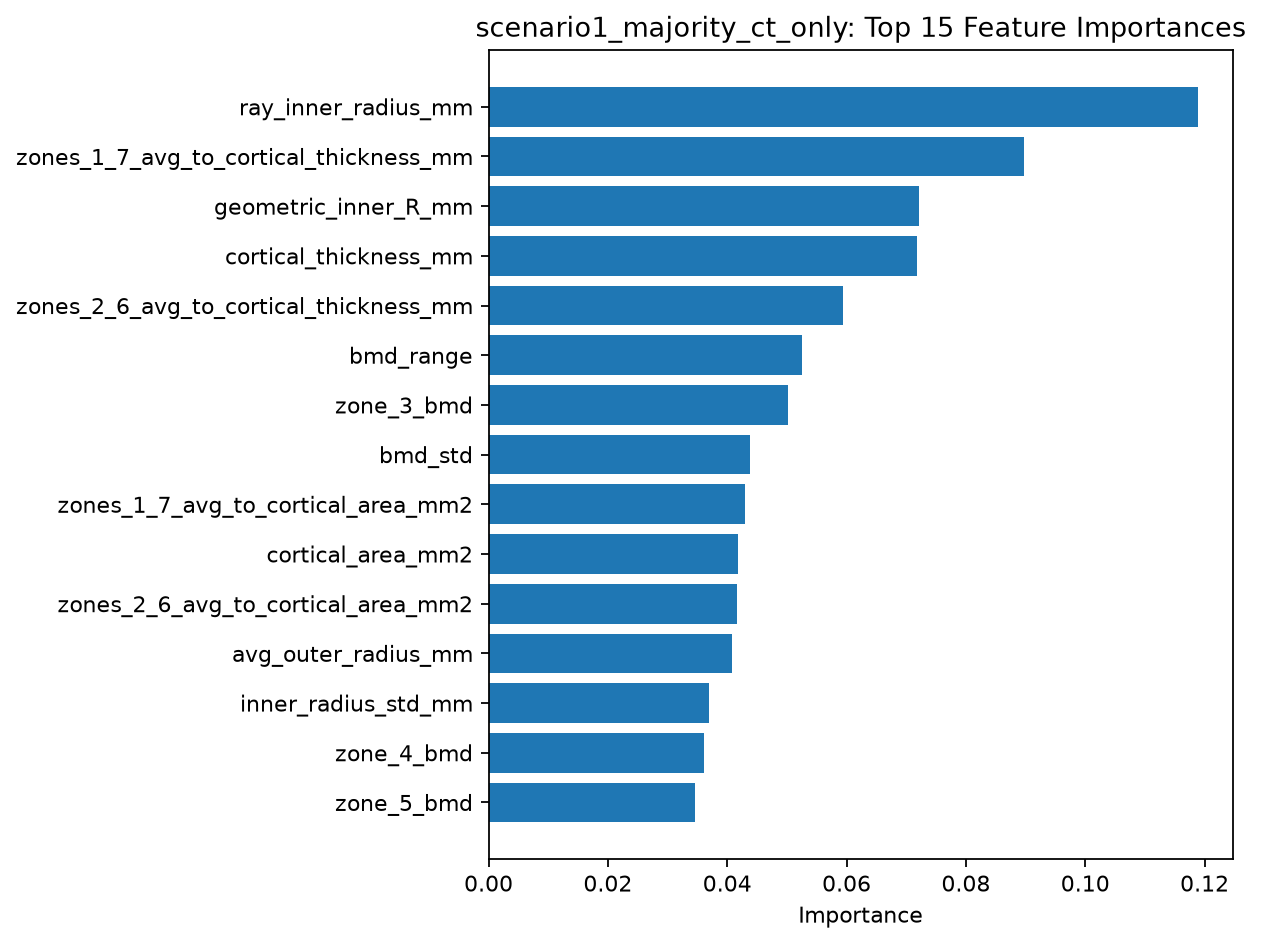
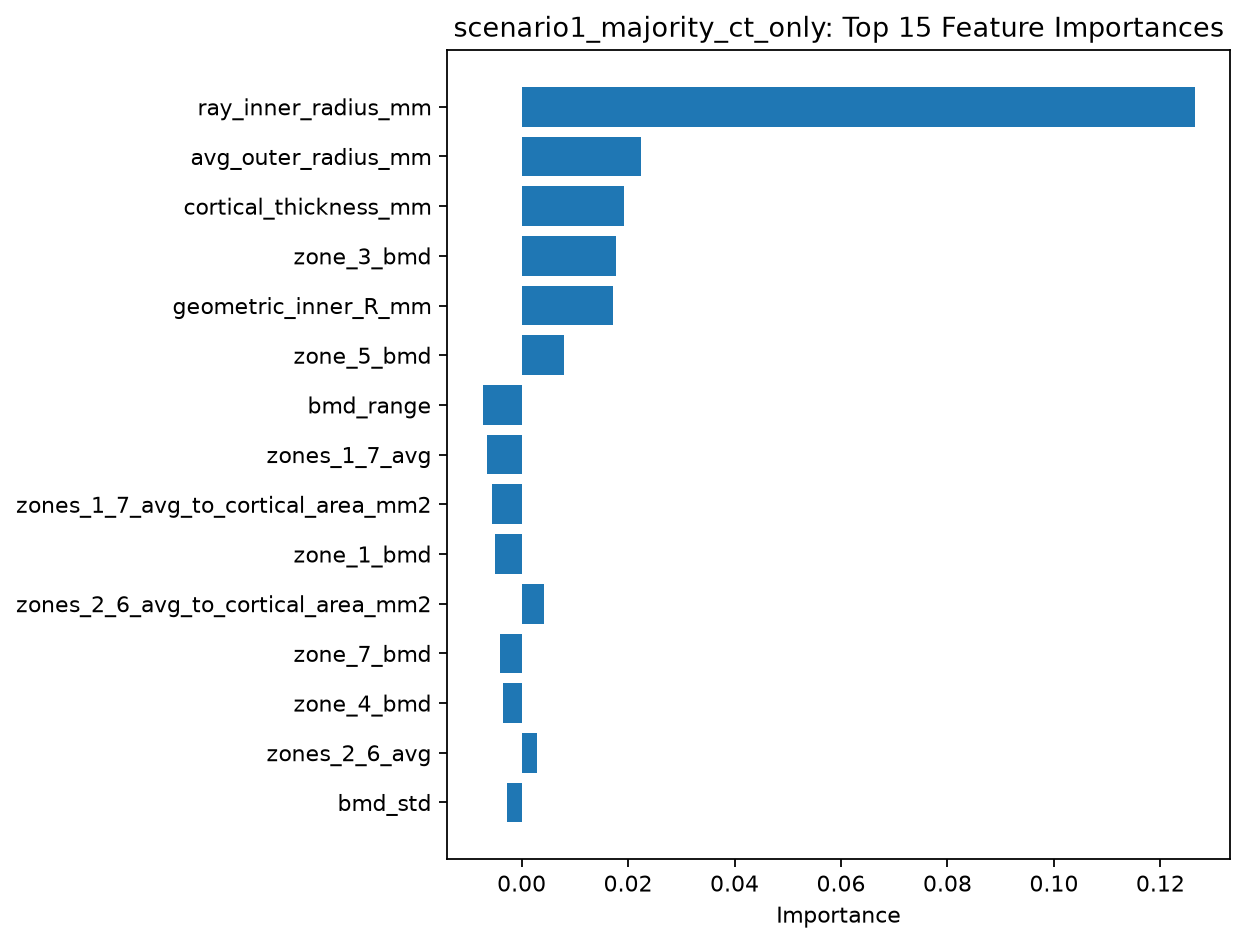
Unify feature importance method: permutation importance for all scenarios
Scenarios 1 and 5 previously used native feature_importances_ because
Random Forest was their best-by-test-ROC-AUC model, while every other
scenario used permutation importance. These aren't on the same scale and
native impurity importance is biased toward high-cardinality/correlated
features (several engineered CT features are ratios/averages of the same
zones) -- mixing methods made cross-scenario importance comparisons
invalid. All 10 classification scenarios now use permutation importance
on the held-out test set (ROC-AUC scoring, n_repeats=30). ray_inner_radius_mm
remained the top feature in both scenarios 1 and 5 after the change.

Updated methods.md Section 7.4 to describe the single unified method.

diff --git a/06_feature_importance_best_model_scenarios_1_3_4_5_6.py b/06_feature_importance_best_model_scenarios_1_3_4_5_6.py
@@ -5,8 +5,13 @@ regression tasks and are out of scope for this script).
 
 Method:
   - Pick best model per scenario by highest test ROC-AUC.
-  - Tree models: native feature_importances_.
-  - Non-tree models: permutation importance on test set (ROC-AUC scoring).
+  - Compute test-set permutation importance (ROC-AUC scoring, n_repeats=30)
+    for that model, regardless of model type. Earlier revisions used native
+    feature_importances_ for tree-based models (Random Forest, Gradient
+    Boosting), but that method is not comparable in scale to permutation
+    importance and is biased toward high-cardinality/correlated features;
+    all scenarios now use the same method so rankings are comparable
+    scenario-to-scenario.
 
 Note: scenarios 1, 3, and 4 previously pointed at stale results directories
 (results_majority/, results_majority_CT+Demographics/,
@@ -127,18 +132,20 @@ def load_split(processed_dir, feature_cols, target_col):
 
 
 def compute_importance(model_name, model, X_train, y_train, X_test, y_test, feature_cols):
+    # Always use test-set permutation importance, regardless of model type.
+    # Native tree importance (feature_importances_) was used previously for
+    # Random Forest / Gradient Boosting, but it is not comparable in scale to
+    # permutation importance and is biased toward high-cardinality/correlated
+    # features. Using one method for every scenario keeps the "best model"
+    # feature-importance rankings comparable across scenarios regardless of
+    # which of the 4 candidate algorithms happened to win.
     model.fit(X_train, y_train)
-    if model_name in {"Random Forest", "Gradient Boosting"}:
-        imp = model.feature_importances_
-        std = np.zeros_like(imp)
-        method = "native_tree_importance"
-    else:
-        perm = permutation_importance(
-            model, X_test, y_test, scoring="roc_auc", n_repeats=30, random_state=42, n_jobs=-1
-        )
-        imp = perm.importances_mean
-        std = perm.importances_std
-        method = "permutation_importance_test_auc"
+    perm = permutation_importance(
+        model, X_test, y_test, scoring="roc_auc", n_repeats=30, random_state=42, n_jobs=-1
+    )
+    imp = perm.importances_mean
+    std = perm.importances_std
+    method = "permutation_importance_test_auc"
 
     df = pd.DataFrame(
         {

diff --git a/methods.md b/methods.md
@@ -173,18 +173,14 @@ Feature importance was computed by a single script, `06_feature_importance_best_
 
 For each classification scenario, importance was computed for exactly **one** model — the model with the highest **test-set** ROC-AUC in that scenario (i.e., the same "best model" reported in the Discussion's results table), refit from scratch on that scenario's training data with the hyperparameters in Section 6. Importance was **not** computed for the other three candidate models in each scenario.
 
-The importance method used depends on the winning model's type, and these two methods are not on a directly comparable scale:
+Importance is computed the same way for every scenario, regardless of the winning model's type: **permutation importance** (`sklearn.inspection.permutation_importance`) on the **held-out test set**, scoring by ROC-AUC, with `n_repeats=30` and `random_state=42`. Each reported value is the mean decrease in test ROC-AUC across the 30 repeats when that feature's values are randomly shuffled; the standard deviation across repeats is also recorded. An earlier revision of this pipeline used native `feature_importances_` (impurity-based mean decrease in Gini/variance) for scenarios 1 and 5, where Random Forest happened to be the best-by-test-ROC-AUC model — that method was dropped because it is not on the same scale as permutation importance, is biased toward high-cardinality/correlated features (several engineered CT features are ratios/averages of the same underlying zones), and made cross-scenario comparison invalid. All scenarios now use one method, so importance rankings are directly comparable scenario-to-scenario. As a consistency check, `ray_inner_radius_mm` remained the top-ranked feature in both scenario 1 and scenario 5 after this change.
 
-- **Tree-based models (Random Forest, Gradient Boosting):** native `feature_importances_` (impurity-based mean decrease in Gini/variance across all trees), computed from the fitted model on the training data. This is scenario 1's and scenario 5's method (Random Forest was the best-by-test-ROC-AUC model in both).
-- **Non-tree models (Logistic Regression, SVM):** permutation importance (`sklearn.inspection.permutation_importance`), computed on the **held-out test set**, scoring by ROC-AUC, with `n_repeats=30` and `random_state=42`. Each reported value is the mean decrease in test ROC-AUC across the 30 repeats when that feature's values are randomly shuffled; the standard deviation across repeats is also recorded. This is the method for every other scenario (3, 4, 6, 7, 8, 9, 10, 11), where Logistic Regression or SVM was the best-by-test-ROC-AUC model.
+One limitation of this procedure should still be stated explicitly, since the question of whether feature importance was computed "systematically and without bias" doesn't have a single yes/no answer:
 
-Two limitations of this procedure should be stated explicitly, since the question of whether feature importance was computed "systematically and without bias" doesn't have a single yes/no answer:
+- **The selection rule (pick the highest-test-ROC-AUC model, then compute its permutation importance) is applied identically and mechanically across all 10 classification scenarios** — in that sense the procedure is systematic and not scenario-specific favoritism, and importance values are now on a common scale across scenarios.
+- **It is not, however, free of the "best-of-4-models" selection-on-the-test-set concern raised elsewhere in this document.** Choosing which model to explain based on the same test-set score used to report that model's headline performance means the reported feature ranking is conditioned on a metric drawn from the same 19–43-hip held-out set — a different resplit could plausibly select a different winning model for a given scenario, as the repeated-split results in Section 7.6 make clear the "best model" is not stable across resplits for some scenarios. Unlike the method-comparability issue above, this selection-bias concern was not resolved by switching to a single importance method, and applies equally to every scenario's feature-importance ranking.
 
-- **The selection rule is applied identically and mechanically across all 10 classification scenarios** (always: pick the highest-test-ROC-AUC model, then apply the importance method appropriate to its type) — in that sense, the procedure is systematic and not scenario-specific favoritism.
-- **However, it is not free of the "best-of-4-models" selection-on-the-test-set concern already raised elsewhere in this document.** Choosing which model to explain based on the same test-set score used to report that model's headline performance means the reported feature ranking is conditioned on a metric drawn from the same 19–43-hip held-out set — a different resplit could plausibly select a different winning model (and therefore a different importance method) for a given scenario, as the repeated-split results in Section 7.6 make clear the "best model" is not stable across resplits for some scenarios.
-- **Native tree importance and permutation importance measure different things and are not comparable in magnitude across scenarios.** A comparison like "age had importance 0.15 in the combined model, versus outer radius's 0.12 in the CT-only model" is only valid if both were computed the same way; when the winning model differs by type between two scenarios being compared, only the *rank order* of features within each scenario should be interpreted, not the numeric values across scenarios.
-
-Per-scenario feature-importance rankings, plots, and the method/model used for each are collected in `results_feature_importance_best_model/best_model_feature_importance_summary.csv`.
+Per-scenario feature-importance rankings, plots, and the winning model for each are collected in `results_feature_importance_best_model/best_model_feature_importance_summary.csv`.
 
 ### 7.5 "Best Model" Selection Criterion
 
@@ -230,7 +226,8 @@ Because the train/test split (Section 5.1), cross-validation folds (Section 7.1)
 | 2026-08-23 | Added scenarios 7–13 to complete the 3×3 ground-truth × feature-set sensitivity matrix (unanimous agreement, original-surgeon-only, and vote-fraction targets each now tested against CT-only, demographics-only, and CT+demographics). Corrected scenario 5/6 prose figures to match committed result files, fixed a stale image reference, repointed the feature-importance script at current (non-stale) result directories, and removed orphaned pre-split-fix result directories (`results_majority/`, `results_majority_CT+Demographics/`, `results_majority_demographics_only/`). See `SCENARIO_INDEX.md`. |
 | 2026-08-23 | Added precision/recall/F1 to the vote-fraction scenarios (2, 12, 13), which previously reported only regression metrics. Added a consolidated all-scenarios metrics table (`08_build_all_models_metrics_table.py`, `reports/all_models_metrics_table.md`). Extended the repeated-split robustness check to all 13 scenarios with 30 repeats and 95% confidence intervals (`07_repeated_grouped_split_eval.py` → `results_repeated_splits_all_scenarios/`), joined into the master metrics table. Corrected a stale claim that demographics were excluded from all models, and marked the "cohort-specific models" and "questionable-quality-scan exclusion" sensitivity analyses explicitly as not done. |
 | 2026-08-23 | Consolidated the 13+ near-duplicated data-cleaning/ground-truth/split/imputation implementations across the `03*` scripts and `07` into one shared module, `common_preprocessing.py`. Verified byte-for-byte (train.csv/metadata) and value-for-value (repeated-split summary, max abs diff 0.0) that every refactored script produces identical output to its pre-refactor version before committing — this was a pure code-organization change with zero effect on any reported number. |
-| 2026-08-24 | Substantially expanded and corrected Sections 6–7 (previously vague/out of date): documented exact model hyperparameters for all 8 algorithms (4 classifiers + 4 regressors) and stated explicitly that none were tuned; rewrote Cross-Validation (7.1) to specify `GroupKFold(n_splits=5)` is applied identically across all 13 scenarios, that it is not stratified by class/cohort, and that it is a reported diagnostic rather than a model-selection mechanism; rewrote Feature Importance (7.4) to specify it only covers the 10 classification scenarios (not the 3 regression scenarios), only the single best-by-test-ROC-AUC model per scenario (not all 4), and uses two different, non-comparable methods depending on model type (native tree importance vs. 30-repeat test-set permutation importance) — with an explicit statement that this selection procedure, while applied identically everywhere, is not free of test-set-informed selection bias; added a new "Best Model Selection Criterion" section (7.5) making that bias explicit; added a new "Repeated-Split Robustness Check" procedural section (7.6). Also rewrote Section 1 (Study Design) and Section 3 (Ground Truth Definition), both of which were stale — Section 1 still said "exclusively CT-derived imaging features" despite Sections 3/4/6/7–13 using demographics, and Section 3 listed only 3 of the 5 ground truths actually in use (missing `gt_h3d_agree` and `gt_unanimous`). Fixed a stale link to the superseded `results_repeated_splits_scenarios_1_3_4_5_6/` directory, and added exact library versions and a documented reproducibility-gap caveat to Section 8. |
+| 2026-08-24 | Substantially expanded and corrected Sections 6–7 (previously vague/out of date): documented exact model hyperparameters for all 8 algorithms (4 classifiers + 4 regressors) and stated explicitly that none were tuned; rewrote Cross-Validation (7.1) to specify `GroupKFold(n_splits=5)` is applied identically across all 13 scenarios, that it is not stratified by class/cohort, and that it is a reported diagnostic rather than a model-selection mechanism; rewrote Feature Importance (7.4) to specify it only covers the 10 classification scenarios (not the 3 regression scenarios) and only the single best-by-test-ROC-AUC model per scenario (not all 4); added a new "Best Model Selection Criterion" section (7.5) making the test-set-informed selection bias explicit; added a new "Repeated-Split Robustness Check" procedural section (7.6). Also rewrote Section 1 (Study Design) and Section 3 (Ground Truth Definition), both of which were stale — Section 1 still said "exclusively CT-derived imaging features" despite Sections 3/4/6/7–13 using demographics, and Section 3 listed only 3 of the 5 ground truths actually in use (missing `gt_h3d_agree` and `gt_unanimous`). Fixed a stale link to the superseded `results_repeated_splits_scenarios_1_3_4_5_6/` directory, and added exact library versions and a documented reproducibility-gap caveat to Section 8. |
+| 2026-08-24 | Switched `06_feature_importance_best_model_scenarios_1_3_4_5_6.py` to use permutation importance for every scenario, including scenarios 1 and 5 (previously native `feature_importances_`, since Random Forest was the best-by-test-ROC-AUC model in both) — native tree importance is not on the same scale as permutation importance and is biased toward high-cardinality/correlated features, so mixing the two methods made cross-scenario importance comparisons invalid. All 10 classification scenarios now report `permutation_importance_test_auc`. `ray_inner_radius_mm` remained the top-ranked feature in both scenarios 1 and 5 after the change. Updated Section 7.4 accordingly. |
 
 ---
 
